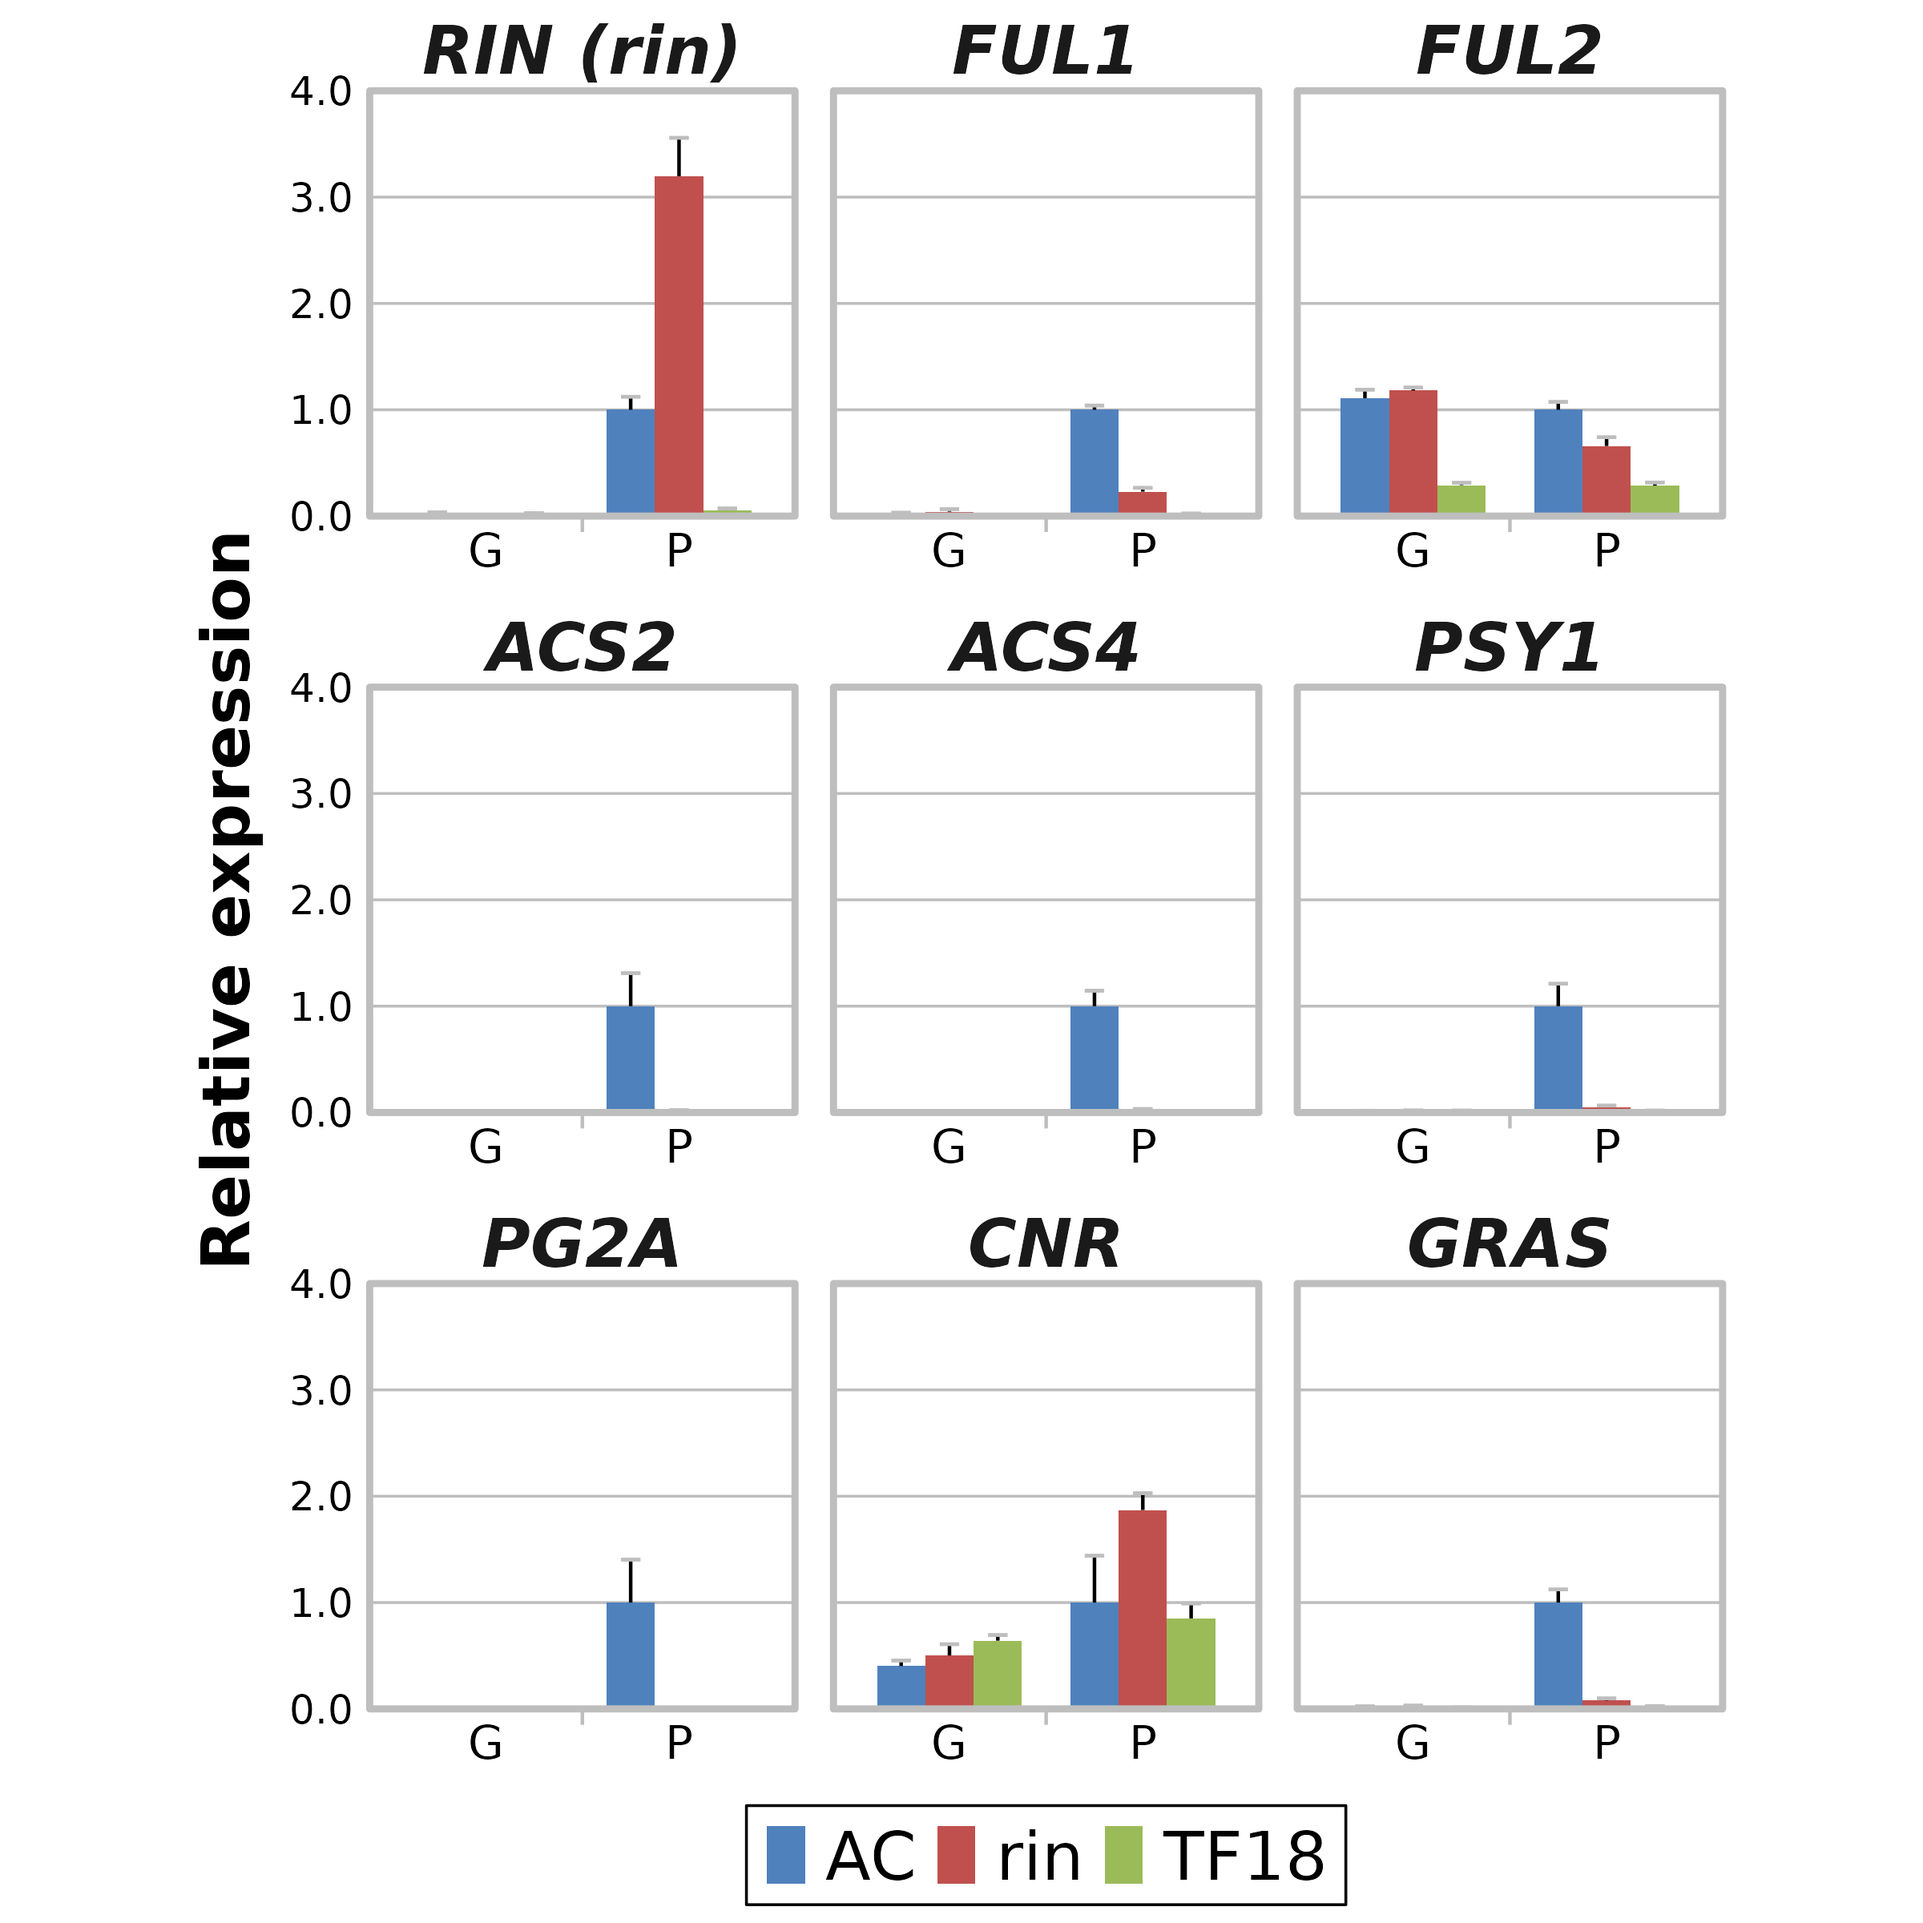
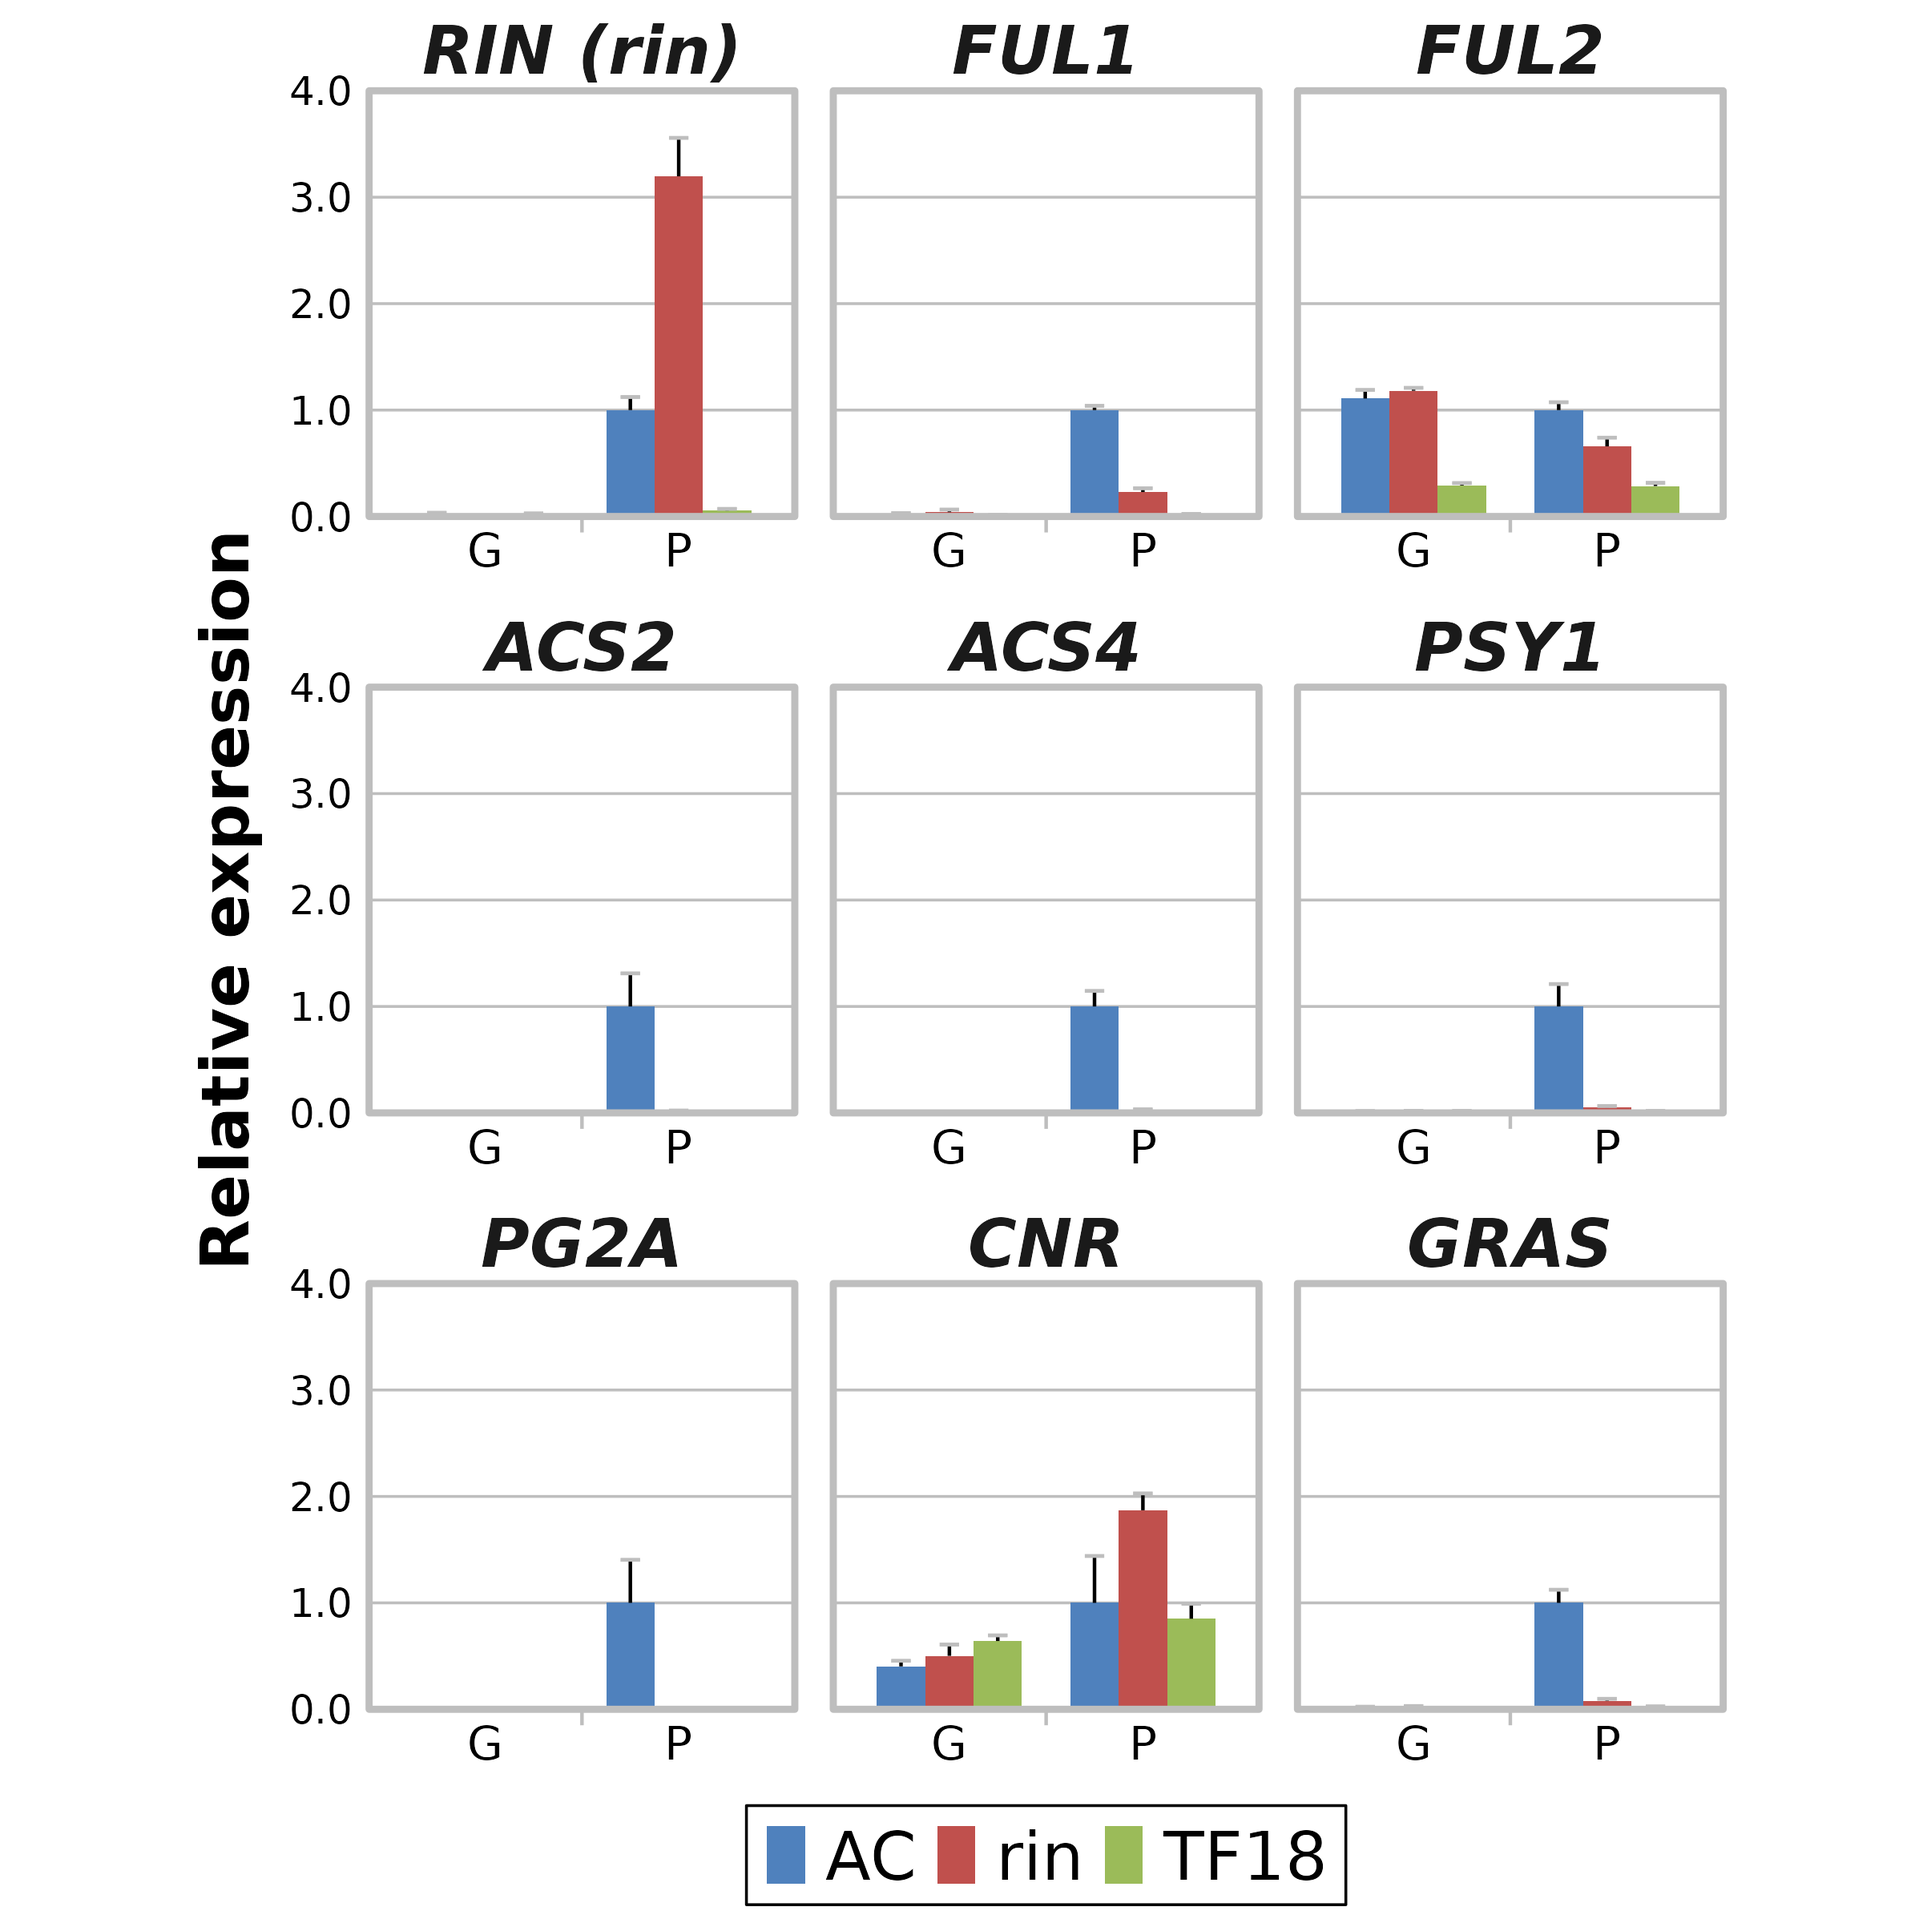
Add of heatmap into slide as column with text

diff --git a/doc/presentation.html b/doc/presentation.html
@@ -130,7 +130,7 @@
 
 <section id="title-slide" class="quarto-title-block center">
   <h1 class="title">Presentation Group 13</h1>
-  <p class="subtitle">Jakob Sandfort Ytte (s194659), Freja Bonde Stürup (s203517), Alma Rosa Willumsen (s224991), Magnus Orkild (s215081) and Fredrik Lodberg Olsen (s215049)</p>
+  <p class="subtitle">Jakob Sandfort Ytte (s194659),Freja Bonde Stürup (s203517), Alma Rosa Willumsen (s224991), Magnus Orkild (s215081) and Fredrik Lodberg Olsen (s215049)</p>
 
 <div class="quarto-title-authors">
 </div>
@@ -141,10 +141,13 @@
 <h1>Introduction</h1>
 
 </section>
+<section id="article" class="slide level2">
+<h2>Article</h2>
+<p>Transcriptional Regulation of Fruit Ripening by Tomato FRUITFULL Homologs and Associated MADS Box Proteins</p>
+<p>published 10th January 2014 by Fujisawa et al.&nbsp;2014</p>
+</section>
 <section id="materials-data-from-article" class="slide level2">
 <h2>Materials: Data from article</h2>
-<p>Transcriptional Regulation of Fruit Ripening by Tomato FRUITFULL Homologs and Associated MADS Box Proteins</p>
-<p>published 10th January 2014</p>
 <p>which genes are regulated by the tomato transcription factors FUL1 and FUL2 during fruit ripening.</p>
 </section></section>
 <section>
@@ -163,15 +166,22 @@
 <h1>Results</h1>
 
 </section>
-<section id="figure-1---visualization-of-the-expression" class="slide level2">
-<h2>Figure 1 - visualization of the expression</h2>
-<p>To create a visualization of the expression pattern for all the genes simultaneously, which genes are unregulated or downregulated. We created a heatmap.</p>
-<p>In order to identify which genes have a similar expression pattern across all the samples. We added a dendogram to the heatmap</p>
-<p>Insert Figure 1: Heatmap + dendrogram</p>
+<section id="figure-1---visualization-of-the-expression-patterns" class="slide level2">
+<h2>Figure 1 - visualization of the expression patterns</h2>
+<div class="columns">
+<div class="column" style="width:50%;">
+<ul>
+<li><p>Heatmap illustrate expression patterns, which genes are up- and down regulated.</p></li>
+<li><p>Dendogram identify which genes have similar expression patterns</p></li>
+</ul>
+</div><div class="column" style="width:50%;">
+<p><img data-src="../results/04_heatmap.png" style="width:40.0%"></p>
+</div></div>
 </section>
-<section id="figure" class="slide level2">
-<h2>Figure</h2>
-</section>
+<section id="figure-2" class="slide level2">
+<h2>Figure 2</h2>
+
+<img data-src="../results/04_heatmap.png" style="width:100.0%" class="r-stretch"></section>
 <section id="discussion" class="slide level2">
 <h2>Discussion</h2>
 
